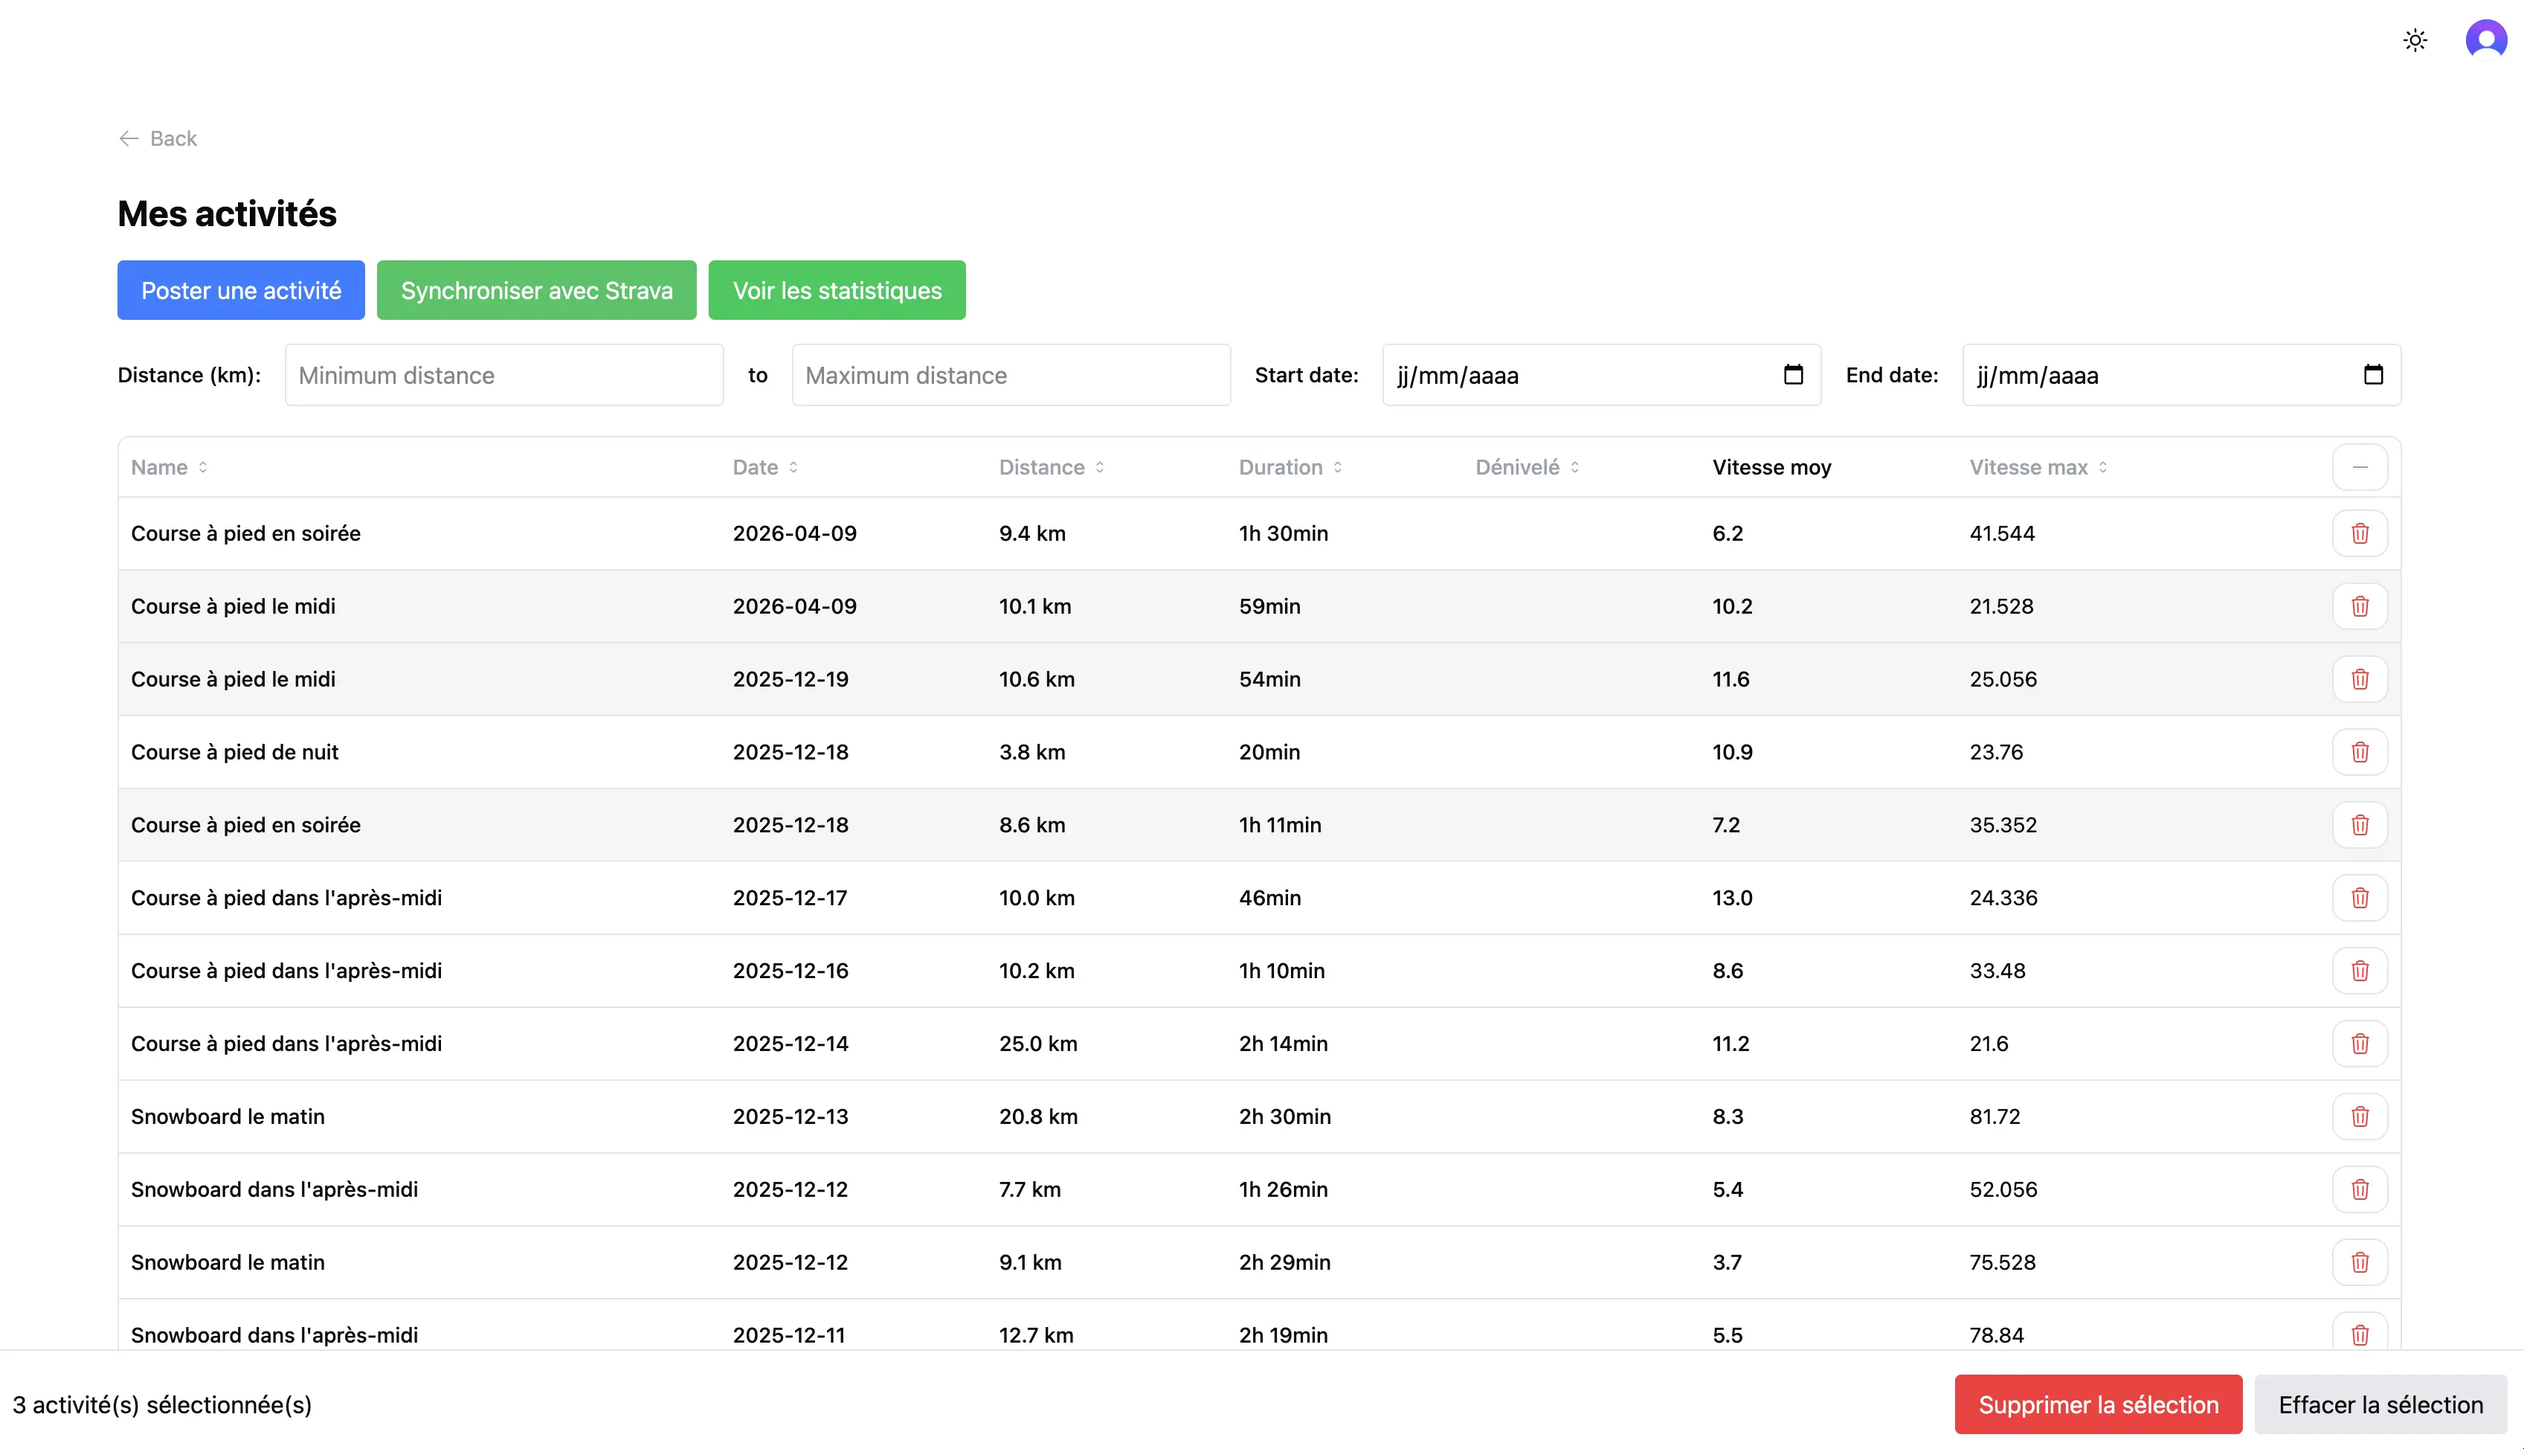
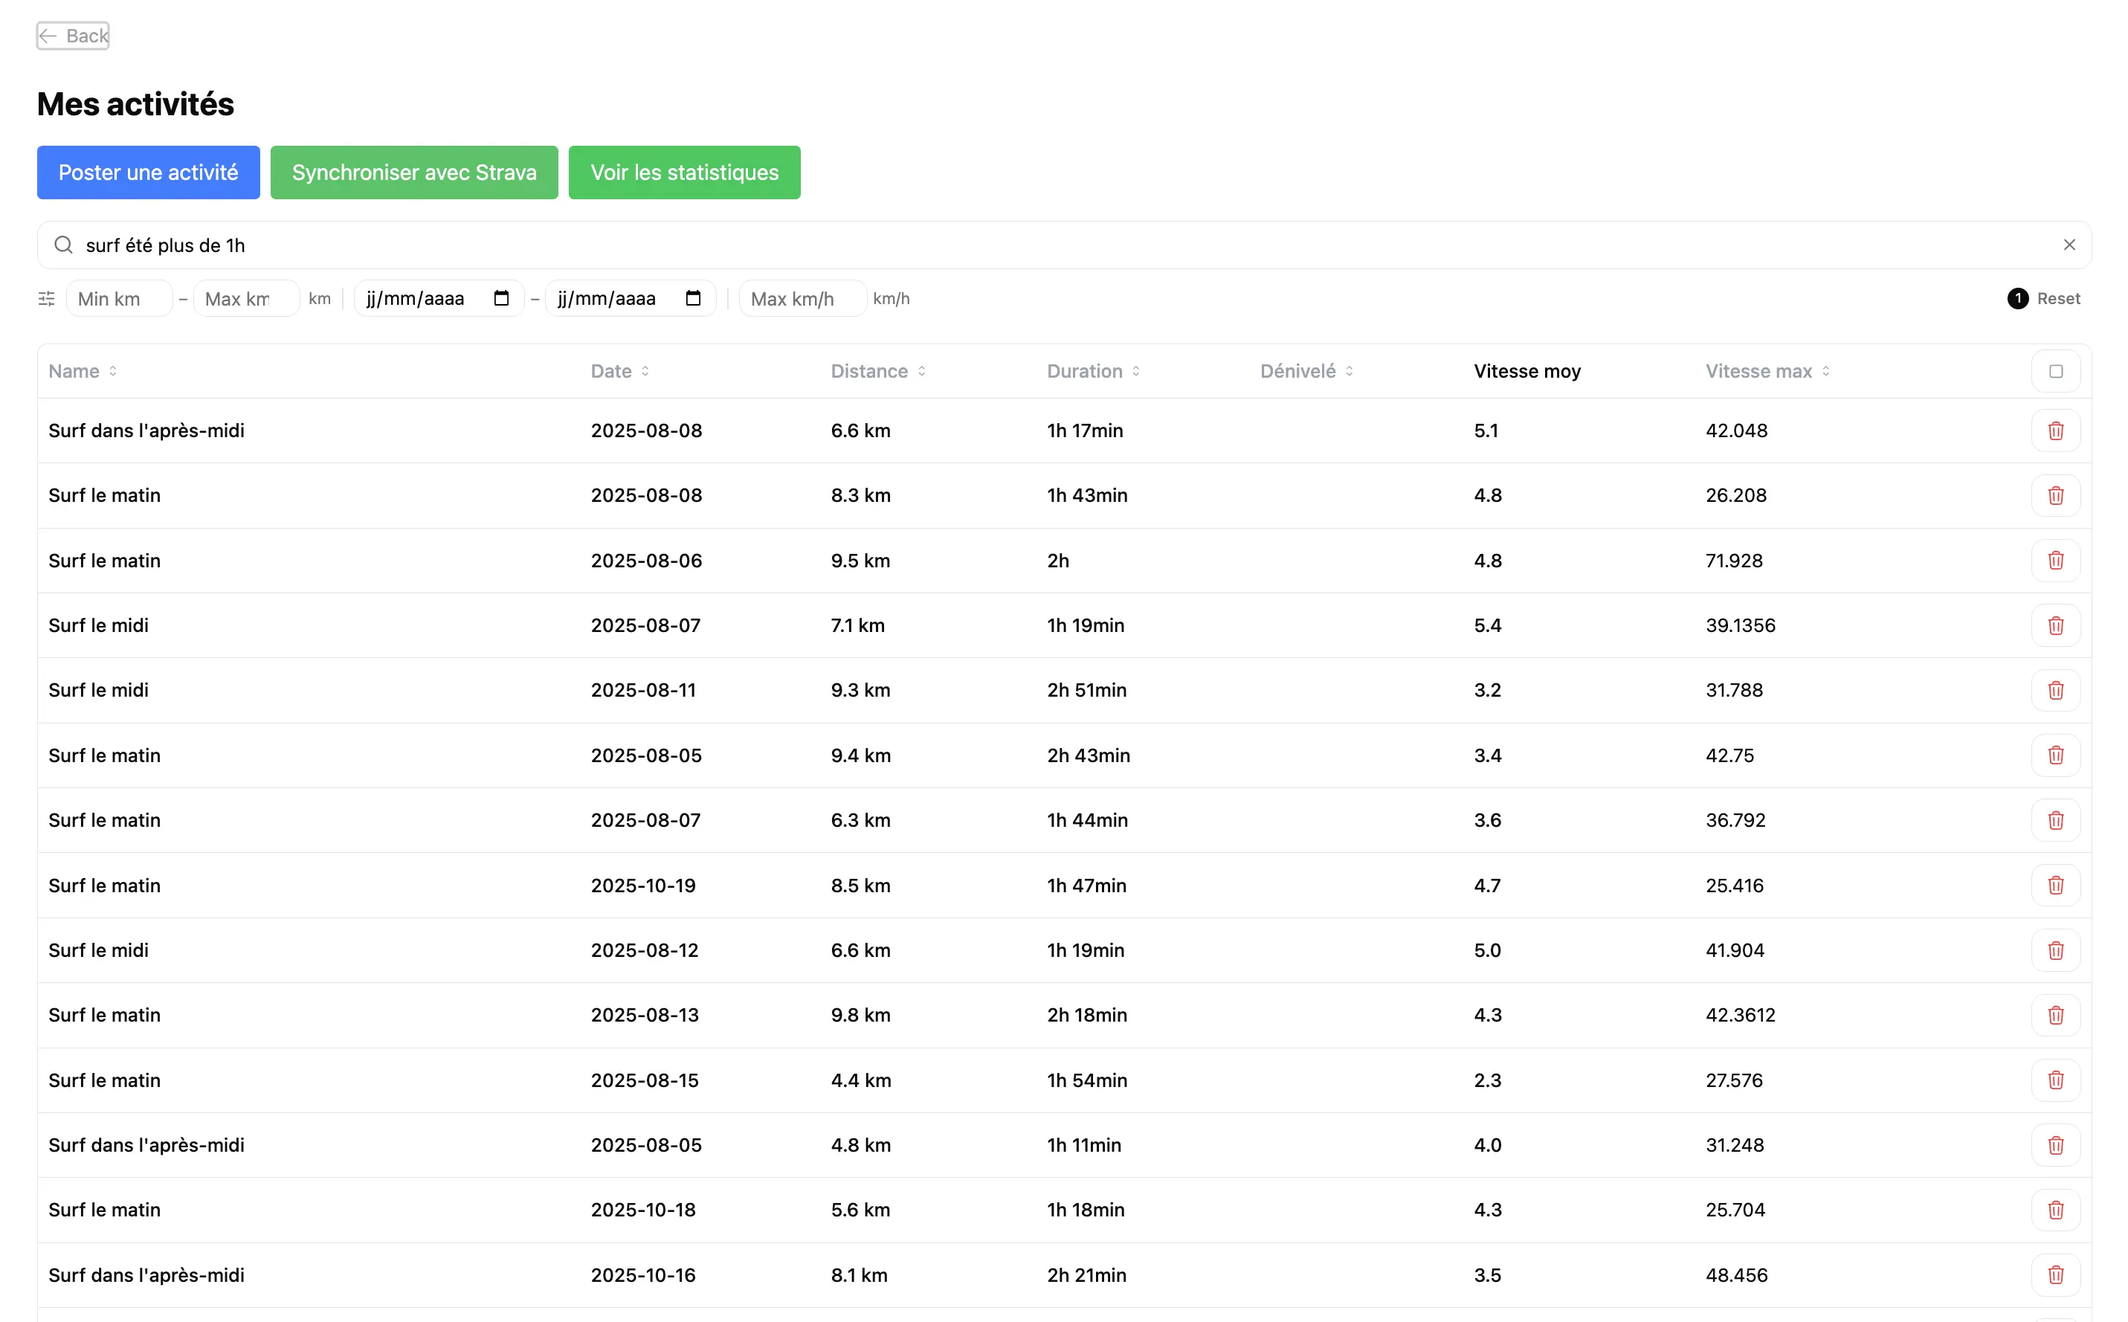
add screen capture up readme

diff --git a/README.md b/README.md
@@ -5,10 +5,9 @@
 A personal activity tracker for outdoor sports — skiing, surfing, trekking, and more. Upload GPS files from any device or sync directly from Strava, and visualize all your activities on an interactive map with elevation and speed charts.
 
 <div align="center">
-  <img src="client/public/map.webp" width="24%" alt="3D map view with terrain relief" />
-  <img src="client/public/map2.webp" width="24%" alt="2D heatmap view with speed overlay" />
-  <img src="client/public/map3.webp" width="24%" alt="Zoomed out view with 400+ activities" />
-  <img src="client/public/map4.webp" width="24%" alt="Activity list with filters, FIT upload and Strava sync" />
+  <img src="client/public/map.webp" width="33%" alt="3D map view with terrain relief" />
+  <img src="client/public/map3.webp" width="33%" alt="Zoomed out view with 400+ activities" />
+  <img src="client/public/map4.webp" width="34%" alt="Activity list with filters, FIT upload and Strava sync" />
 </div>
 <div align="center">
   <sub>3D terrain view &nbsp;·&nbsp; 2D speed heatmap &nbsp;·&nbsp; 400+ activities overview &nbsp;·&nbsp; Activity list with FIT upload & Strava sync</sub>
